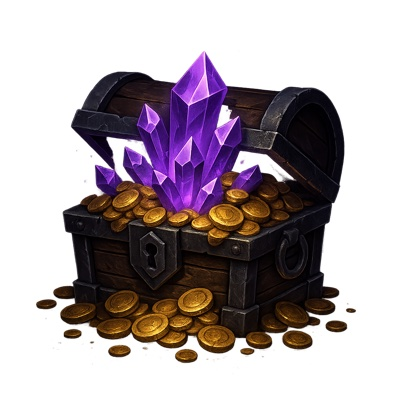
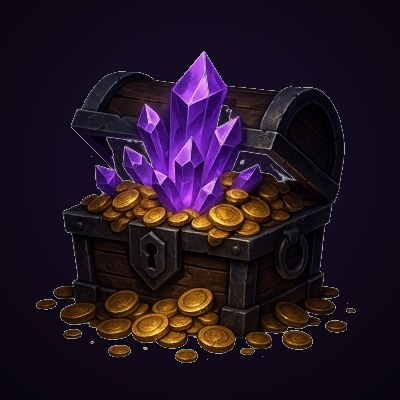
Kristall-Pakete: 6000er-Hintergrund gefixt + Tags nicht mehr abgeschnitten
- pack_6000.jpg hatte weissen Hintergrund -> per Flood-Fill (von den Raendern)
  durch dunklen radialen Hintergrund ersetzt, passend zu den anderen Paketen.
- .pack-row padding-top 2px -> 16px: die -9px hochstehenden Tags "Beliebt"/
  "Bester Preis" wurden vom overflow der Scroll-Reihe oben abgeschnitten.
- Pack-Bild-Version v=2 (Cache-Bust). Im Preview verifiziert.

diff --git a/index.html b/index.html
@@ -428,7 +428,9 @@
   .shopcat-ic { width: 46px; height: 46px; object-fit: contain; filter: drop-shadow(0 2px 4px rgba(0,0,0,.5)); }
   .shopcat-lbl { font-family: var(--font-myth); font-size: .72rem; line-height: 1; text-align: center; }
 
-  .pack-row { display: flex; gap: 10px; overflow-x: auto; padding: 2px 2px 8px; scroll-snap-type: x mandatory; }
+  /* padding-top schafft Platz fuer die -9px hochstehenden Tags (sonst schneidet
+     der overflow der Scroll-Reihe "Beliebt"/"Bester Preis" oben ab). */
+  .pack-row { display: flex; gap: 10px; overflow-x: auto; padding: 16px 2px 8px; scroll-snap-type: x mandatory; }
   .pack-card {
     position: relative; flex: 0 0 108px; scroll-snap-align: start; text-align: center;
     padding: 14px 8px 12px; border-radius: 14px; cursor: pointer; color: var(--text);

diff --git a/app.js b/app.js
@@ -665,7 +665,7 @@ function crystalPacksRow() {
   const packs = CRYSTAL_PACKS.map(p => `
     <button class="pack-card${p.tag ? ' tagged' : ''}" data-pack="${esc(p.id)}" type="button">
       ${p.tag ? `<span class="pack-tag">${esc(p.tag)}</span>` : ''}
-      ${p.img ? `<img class="pack-img" src="${esc(p.img)}?v=1" alt="" loading="lazy">` : ''}
+      ${p.img ? `<img class="pack-img" src="${esc(p.img)}?v=2" alt="" loading="lazy">` : ''}
       <div class="pack-amt">${CRY} ${nf(p.amount)}</div>
       ${p.bonus ? `<div class="pack-bonus">+${nf(p.bonus)} extra</div>` : '<div class="pack-bonus">&nbsp;</div>'}
       <div class="pack-price">${esc(p.priceEUR)}</div>
